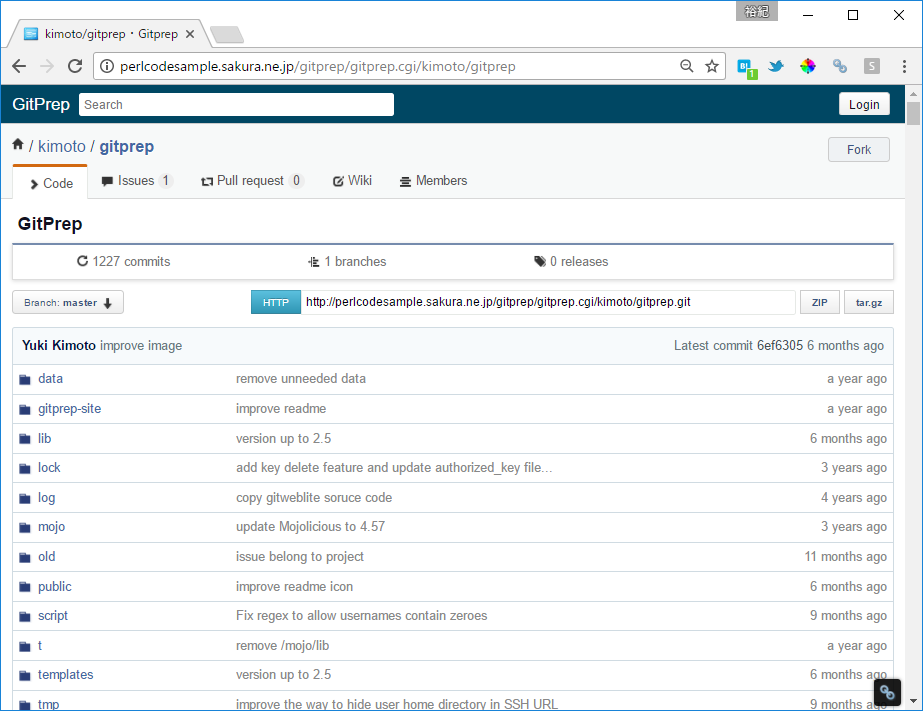
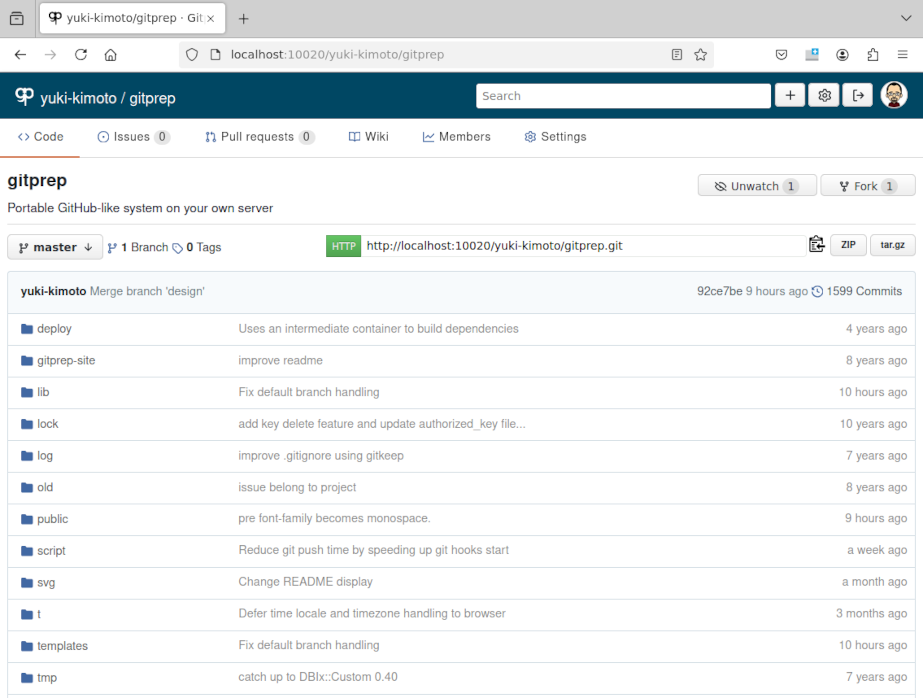
Use a recent screenshot in README
Plus fixes a few typos and outdated links in README.
Remove unused very old screenshot image.

Changed region(s): [[0.0, 0.0, 1.0, 1.0], [0.7584, 0.2407, 0.8797, 0.3009], [0.364, 0.2407, 0.5157, 0.2708]]

diff --git a/README.md b/README.md
@@ -2,7 +2,7 @@
 
 # GitPrep - Portable GitHub system on your own server
 
-GitPrep is **portable Github system**, which can be installed and hosted on **your own Unix/Linux server**.
+GitPrep is a **portable Github system**, which can be installed and hosted on **your own Unix/Linux server**.
 
 <img src="gitprep_01.png" width="870" border="1">
 
@@ -106,7 +106,7 @@ Setup database.
 
     ./setup_database
 
-If you used Gitprep version 1 and upgrade it to version 2, you need to upgrade database
+If you used GitPrep version 1 and upgrade it to version 2, you need to upgrade database
 with the following command
 
     # Backup gitprep directory for safety
@@ -173,7 +173,7 @@ to see what problem has occurred.
 
 ## FAQ
 
-## I can't install Gitprep on CentOS
+## I can't install GitPrep on CentOS
 
 After CentOS 6, some perl core modules are not installed by default.
 You can install Perl core modules by the following command.
@@ -191,7 +191,7 @@ you must add the correct git command path to the config file **gitprep.conf** .
 
 ### blame doesn't work
 
-In Gitprep, blame page uses "git blame --line-porcelain". In old git, there is no --line-porcelain option.
+In GitPrep, blame page uses "git blame --line-porcelain". In old git, there is no --line-porcelain option.
 We don't know when --line-porcelain was added to git.
 At least, blame page work well in git 1.8.2.1.
 
@@ -203,7 +203,7 @@ If you want to upgrade by "git pull", you can do it.
 you create "gitprep.my.conf" copied from "gitprep.conf",
 and do "git pull"
 
-If you get a rainbow unicorn t-rex error after upgrading, you might be missing
+If you get a drinking elephant error after upgrading, you might be missing
 a new CPAN dependency. Run again "setup.sh".
 
 ### I can't push large repository by http protocol
@@ -217,7 +217,7 @@ Please upgrade to latest git. I checked git version 1.8.5.5.
 
 **2. GitPrep restriction**
 
-GitPrep restrict max post message size 10MB(This is default of Mojolicious)
+GitPrep restrict max post message size 10MB (This is default of Mojolicious)
 
 You maybe see the following error
 
@@ -305,7 +305,7 @@ If you use GitPrep via https, you should set X-Forwarded-HTTPS Request Header.
 
 ### How to use reverse proxy with sub directory?
 
-GitPrep support reverse proxy with sub directory.
+GitPrep supports reverse proxy with sub directory.
 
 Here is the apache configuration example:
 
@@ -334,7 +334,7 @@ You can import already existing repositories by **script/import_rep** script.
     cd script
     ./import_rep -u kimoto rep_dir
 
-**-u** is user name. rep_dir must contains git respoitories like the following.
+**-u** is user name. rep_dir must contains git repositories like the following.
 
     rep_dir/project1.git
            /project2.git
@@ -363,7 +363,7 @@ Please fix it the following way.
 
 ### I want to set time zone.
 
-Gitprep is timezone-agnostic. It delegates time zone handling to the browser.
+GitPrep is timezone-agnostic. It delegates time zone handling to the browser.
 If you want to change the time zone, do it on your client system.
 
 ### How to hide user home directory in ssh repository URL?
@@ -642,7 +642,7 @@ I write the following way in "setup_module"
 
 ###2. CGI is supported in Mojolicious
 
-It is good luck for us that Mojolicious author [Sebastian Riedel](https://twitter.com/kraih) decided to **support CGI** in Mojolicious.
+It is good luck for us that Mojolicious author [Sebastian Riedel](https://x.com/kraih) decided to **support CGI** in Mojolicious.
 
 We can create web application which support CGI with a little effort.
 
@@ -663,14 +663,10 @@ After that, you only prepare CGI script to call Mojolicious application in **pro
     $ENV{MOJO_MODE} = 'production';
     require "$FindBin::Bin/script/gitprep";
 
-## Web Site
-
-[GitPrep Web Site](http://gitprep.yukikimoto.com/)
-
-## Internally Using Modules
+## Module dependencies
 
 GitPrep depends on the following modules, especially Mojolicious is the base of GitPrep.
-Thanks to Mojolicious author,[Sebastian riedel](https://twitter.com/kraih).
+Thanks to Mojolicious author, [Sebastian riedel](https://x.com/kraih).
 
 * [Mojolicious](http://search.cpan.org/~sri/Mojolicious/lib/Mojolicious.pm)
 * [Mojolicious::Plugin::INIConfig](http://search.cpan.org/dist/Mojolicious-Plugin-INIConfig/lib/Mojolicious/Plugin/INIConfig.pm)
@@ -699,21 +695,11 @@ These are my Perl web application projects.
 
 * [WebDBViewer](https://github.com/yuki-kimoto/webdbviewer) - Database viewer to see database information on web browser.
 
-## Bug
+## Bugs
 
-If you find bug, plese tell me on GitHub issue. Small bugs is OK! I'm pleasure if you report anything bugs.
-
-Please post only bug information.
+If you find some bug, please report it as a GitHub issue. Small bugs are OK! I'm pleased if you report anything buggy.
 
 * [Github Issue](https://github.com/yuki-kimoto/gitprep/issues?state=open)
-
-## Mailing list (Asking questions and feature requests)
-
-* [Google GitPrep Group](https://groups.google.com/forum/#!forum/gitprep)
-
-You can ask questions about usage of GitPrep in this mailing list.
-
-If you want new features, please post the request to this mailing list.
 
 ## Author
 
@@ -721,11 +707,11 @@ Yuki Kimoto
 
 [Yuki Kimoto Perl Blog](http://blogs.perl.org/users/yuki_kimoto/)
 
-[Yuki Kimoto Twitter](https://twitter.com/yukikimoto2)
+[Yuki Kimoto X](https://x.com/yukikimoto2)
 
-If you are interested in my project and activity, Please follow me on Twitter.
+If you are interested in my projects and activity, Please follow me on X.
 
-## Contributers
+## Contributors
 
 Thanks for helping my GitPrep project.
 
